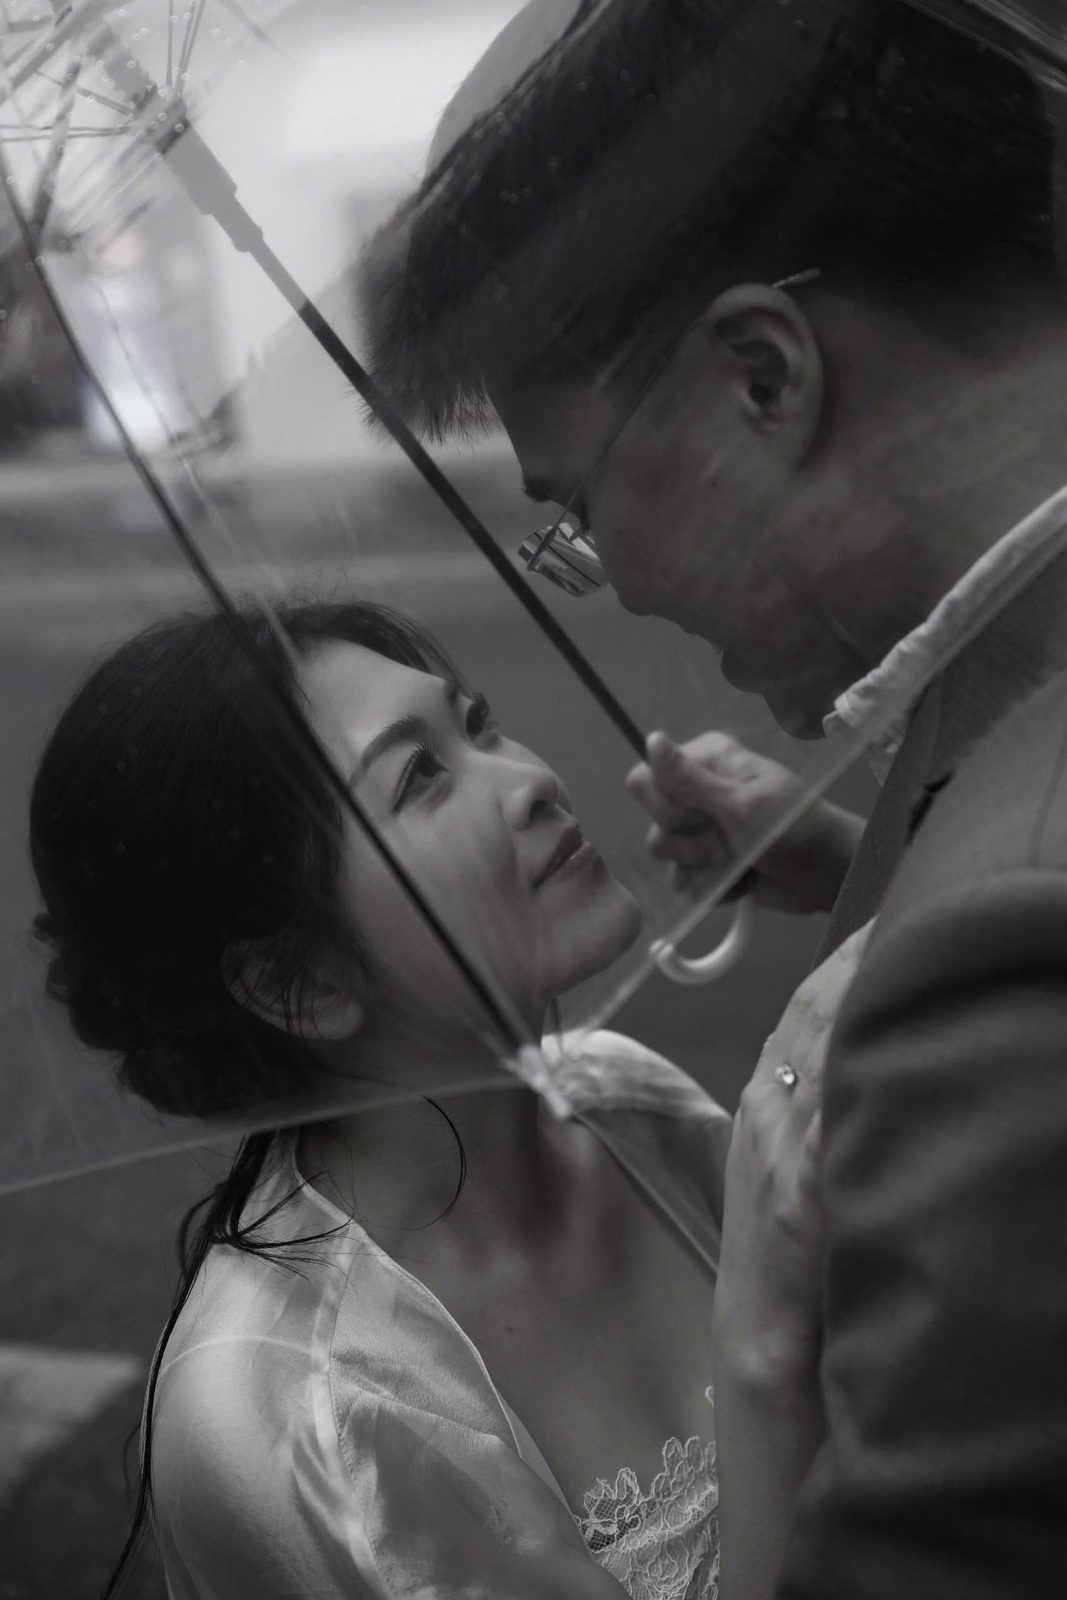
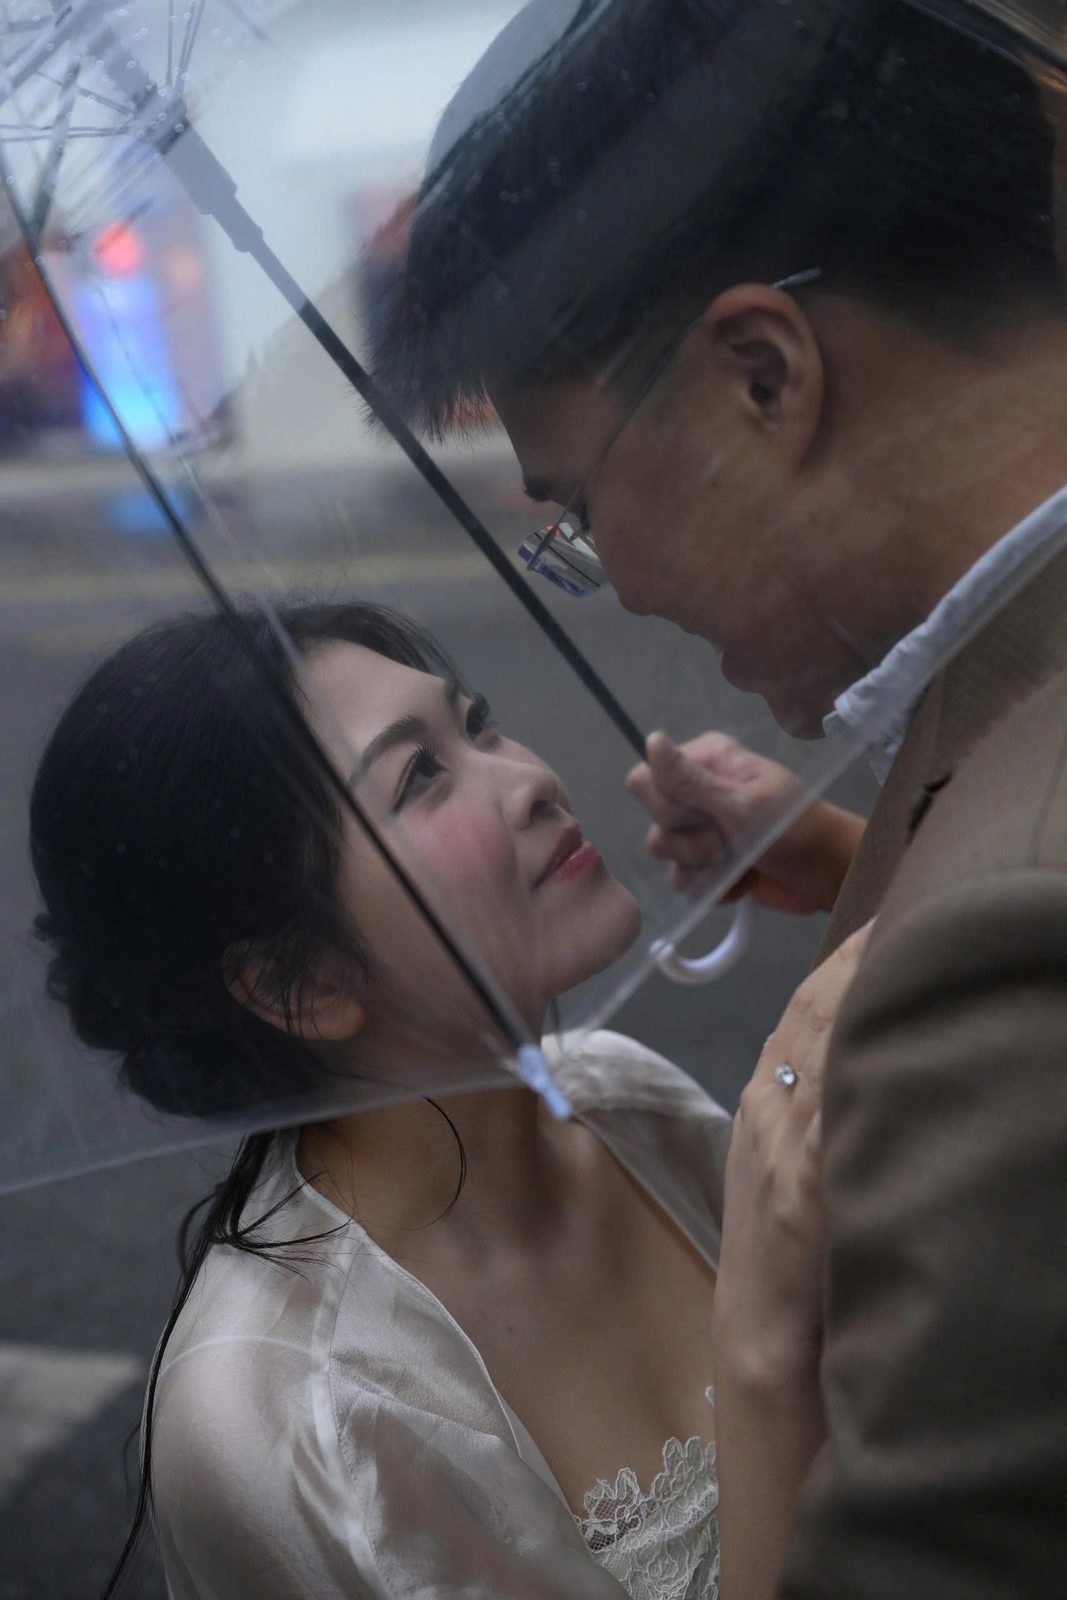
Album: thay ảnh đen trắng (vị trí 8) bằng ảnh màu hai người dưới ô trong suốt

diff --git a/cong-cu/thu_nho_anh_cuoi.py b/cong-cu/thu_nho_anh_cuoi.py
@@ -29,7 +29,7 @@ THU_TU = [
     "77a709b0-bad7-4aa1-96d6-35b0d1175740.jpeg",   # hai người dạo bước, quán ngoài trời
     "da202839-0634-47b5-856e-720fcbca8782.jpeg",   # chú rể trên bãi cỏ
     "c104407c-46ec-4900-b209-914e11ebca17.jpeg",   # cô dâu ngồi giữa hoa
-    "612acdc6-029f-4800-9409-39d66605b416.jpeg",   # ảnh đen trắng hai người
+    "c9164f4300b280ecd9a3.jpg",                    # hai người dưới ô trong suốt (ảnh màu, thay ảnh đen trắng)
     "261fb844-6c7a-46b3-98a7-39daedd5d534.jpeg",   # cận bó hoa
     "5092bcec-c5a6-42cf-8a7f-12d1235d0fc6.jpeg",   # cô dâu quay lưng, studio hoa
     "67a378c1-af4b-4da0-95bf-c162b4d80cb1.jpeg",   # hai người qua gương cầu
